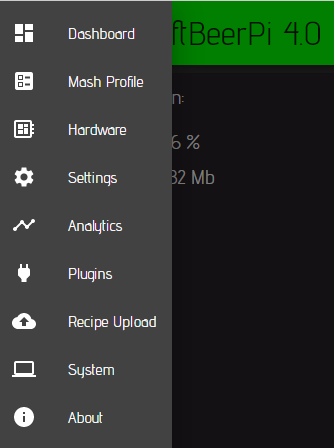
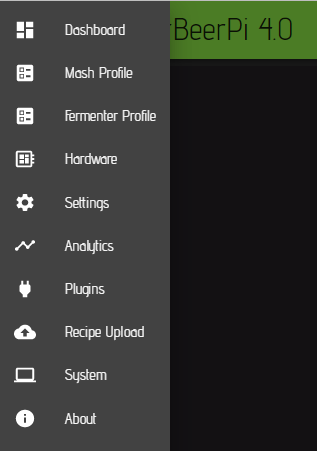
Added fermenterprofile

diff --git a/master/craftbeerpi-4-server/fermenter-profile.md b/master/craftbeerpi-4-server/fermenter-profile.md
@@ -1,0 +1,102 @@
+# Fermenter Profile
+
+On the CraftbeerPi 4 mash profile page, you can create recipes manually and send them to the mash step item for brewing. You can also store them in a recipe book and use them at a later point of time. You can also clone recipes or modify existing recipes. There is also the possibility to import recipes via beerxml files, from the database of 'Kleiner Brauhelfer 2' or directly via the Brewfather API (Paid premium account required). This part will be described in the [Recipe Upload](recipe-upload.md) section. If there is no active recipe defined, an empty window will open from where you can access the recipe book.
+
+![Empty Mash Profile window](../../.gitbook/assets/cbpi-mashprofile-empty.png)
+
+Now click on the recipe book button to open the recipe book. This will be empty when you open it for the first time.
+
+![Empty recipe book](../../.gitbook/assets/cbpi4-mashprofile-recipes.png)
+
+To create a new recipe, click on the '+' at the top right. An interactive menu will open where you can enter the Name of your recipe and a description. The brewer field will be filled with the brewer you entered on the [settings page](settings.md#global-system-parameters).&#x20;
+
+![Basic data fields for a new recipe](../../.gitbook/assets/cbpi4-mashprofile-recipe-editor.png)
+
+Now you need to add steps to the recipe. Therefore, you need to click on the '+' symbol on the right side of the Brew Steps label.
+
+![Mash Profile with a new empty step](../../.gitbook/assets/cbpi4-mashprofile-addstep.png)
+
+To edit the added step, you need to click on the 'down arrow' at the right side of the step. This will open an interactive menu for the step.
+
+![Mash Profile with step in Edit mode](../../.gitbook/assets/cbpi4-mashprofile-recipe-editor2.png)
+
+Now you need to select a mash step type which is currently labelled as 'Logic'. Therefore, you need to click on the Logic drop down menu and you will see the available step types.
+
+![Mash Step type selection](../../.gitbook/assets/cbpi4-mashprofile-stepselection.png)
+
+CraftbeerPi 4 comes with a pre-defined set of mash steps that can be added to a mash profile. Additional steps can be added via plugins. Some examples will be described in the [Development ](../development.md#creating-new-plugins)part.
+
+The table below summarizes the function and parameters for the standard mash steps that come with CraftbeerPi 4.
+
+{% hint style="info" %}
+All Steps have the name filed and you should enter a name for each step. e.g. MashIn, MashStep1, Boilstep, ... as this information can be used in other plugins (e.g. LCDisplay)
+{% endhint %}
+
+|                  | Description                                                                                                                                                                      | Parameters                                                                                                                                                                                                                                                                                                                                                                                                                                                                                                                                                                                    |
+| ---------------- | -------------------------------------------------------------------------------------------------------------------------------------------------------------------------------- | --------------------------------------------------------------------------------------------------------------------------------------------------------------------------------------------------------------------------------------------------------------------------------------------------------------------------------------------------------------------------------------------------------------------------------------------------------------------------------------------------------------------------------------------------------------------------------------------- |
+| MashInStep       | Heats up to the target temp and stops when temp is reached. This can be used to add e.g. Malt before moving to next step. User has to manually move to next step.                | <p><strong>Temp:</strong> Target Temp for MashInStep</p><p><strong>Sensor:</strong> Sensor to be used for this step</p><p><strong>Kettle:</strong> Kettle to be used for this step</p><p><strong>AutoMode:</strong> If yes: Kettle Logic will be switched on/off when step starts/stops</p>                                                                                                                                                                                                                                                                                                   |
+| MashStep         | Heats up to the target temp and runs until Timer is done.                                                                                                                        | <p><strong>Time:</strong> Time in Minutes for Timer</p><p><strong>Temp:</strong> Target Temp for MashStep</p><p><strong>Sensor:</strong> Sensor to be used for this step</p><p><strong>Kettle:</strong> Kettle to be used for this step</p><p><strong>AutoMode:</strong> If yes: Kettle Logic will be switched on/off when step starts/stops</p>                                                                                                                                                                                                                                              |
+| BoilStep         | Heats up to the target temp and runs until Timer is done. Is sending notifications to add hops.                                                                                  | <p><strong>Time:</strong> Time in Minutes for Timer</p><p><strong>Temp:</strong> Target Temp for BoilStep</p><p><strong>Sensor:</strong> Sensor to be used for this step</p><p><strong>Kettle:</strong> Kettle to be used for this step</p><p><strong>AutoMode:</strong> If yes: Kettle Logic will be switched on/off when step starts/stops</p><p><strong>First Wort:</strong> Sends a notification for First Wort Hops on Start if set to 'Yes'</p><p><strong>Hop [1-6]:</strong> Sends up to 6 notifications for Hop alarms on specified times. Time is remaining Boil time in Minutes</p> |
+| CooldownStep     | Waits that Wort is cooled down to target temp and is sending a notification. Active Step if Actor is selected. Can switch actor on on start and off when target temp is reached. | <p><strong>Temp:</strong> Target Temp for Notification</p><p><strong>Sensor:</strong> Sensor to be used for this step</p><p><strong>Kettle:</strong> Kettle to be used for this step</p><p><strong>Actor:</strong> Actor that is switched on during cooldown if selected (can be used to trigger a magnetic valve)</p>                                                                                                                                                                                                                                                                        |
+| Waitstep         | Does nothing for a specified time. Can be used as Whirlpool step.                                                                                                                | **Time:** Time in Minutes for Timer                                                                                                                                                                                                                                                                                                                                                                                                                                                                                                                                                           |
+| ToggleStep       | Switches an actor on or off                                                                                                                                                      | <p><strong>Toggle Type:</strong> defines if the specified actor is switched on or of in this step</p><p><strong>Actor:</strong> Actor that is toggled</p>                                                                                                                                                                                                                                                                                                                                                                                                                                     |
+| ActorStep        | Switches an Actor on for a specified time                                                                                                                                        | <p><strong>Time:</strong> Time in Minutes for Timer</p><p><strong>Actor:</strong> Actor that is switched on for the specified time</p>                                                                                                                                                                                                                                                                                                                                                                                                                                                        |
+| NotificationStep | Sends a Notification and can wait on user input. Can be used as step between Mash and boil for lautering with a required user input                                              | <p><strong>Notification:</strong> Notification text that can be specified by user</p><p><strong>AutoNext:</strong> If set to 'No', step is waiting for user input to move to next step. Otherwise, next step is automatically started.</p>                                                                                                                                                                                                                                                                                                                                                    |
+
+## Write your first simple recipe
+
+As described above, the basic data has been entered and the first step has been added to your recipe. Now you need to select a step type. I recommend to start with a MashInStep as this steps will heat up your water to the target temperature and sends a notification when the temperature is reached and will wait for a user input before moving to the next step. This allows you to add the malt at the mash-in temperature.
+
+You need to set the targeted mashin temperature and select the sensor and Kettle you want to use for this step. You should also specify a notification that is send when the target temperature is reached. I also recommend to set AutoMode to Yes.&#x20;
+
+{% hint style="info" %}
+AutoMode set to 'Yes' will switch on the kettle logic when a step starts and switch it off at the end of the step. This is the recommended setting for your mash and boil steps
+{% endhint %}
+
+![MashIn Step](../../.gitbook/assets/cbpi4-masprofile-mashin.png)
+
+Now you need to add a mash step and define the temperature for the first mash step which can be the same as the mashin step. Just click again on the '+' symbol to add an empty step and select MashStep as Logic. In this step you will need to define a timer in minutes and select your temperature sensor and kettle. Also here I recommend to use the automode setting. The timer will start counting, once the target temperature is reached.
+
+![First Mash step](../../.gitbook/assets/cbpi4-mashprofile-mash1.png)
+
+In this example we add another mash step at a higher temperature. The procedure to add another step is the same as before. Define name, temperature, time and select your sensor and kettle. Set Automode to 'yes'
+
+![Second Mash Step](../../.gitbook/assets/cbpi4-mashprofile-mash2.png)
+
+Afterwards, we add a mashout step which is also a regular mashstep at 78°C for 5 minutes. The other options will be the same as in the first two mash steps.
+
+![Mashou step](../../.gitbook/assets/cbpi4-mashprofile-mashout.png)
+
+Now it is recommended to add a Notification step for the lautering process before you can move to the boilstep. This step is based on a Notification step. Just select the notification step, enter some text for the notification and set AutoNext to 'No'. This will raise a pop-up message that needs to be confirmed before the system is moving to the next step.
+
+![Lautering step based on the Notification step](../../.gitbook/assets/cbpi4-mashprofile-lautering.png)
+
+As next step, you need to add a boilstep. In this step you need to define a couple of more parameters compared to the mash steps. However, the first few parameters are the same. You need to define the name, time, temperature. Then you need to select your sensor and kettle which can be for instance different from the mash kettle if your boil takes place in a different kettle. The lid alert flag can be set to yes. In this case the system will send a notification shortly before boiling temperature to remove the lid. AutoMode should e set again to 'Yes'. If your recipe has first wort hops included, you can set the First Wirt flag to yes. This will send a notification to add hops once you start this step. You can also define up to 6 hop/misc alarms. The time is the remaining boil time for the hops.
+
+![Boilstep with hop alarms](../../.gitbook/assets/cbpi4-mashprofile-boil.png)
+
+After the boilstep, it is recommended to add a waitstep that can be used as Whirpool. Just enter 15 minutes or your desired time for this step.
+
+![Whirlpool based on Waitstep](../../.gitbook/assets/cbpi4-mashprofile-whirlpool.png)
+
+Finally, you can add a cooldown step for the active cool down of your wort. You need to specify a target temperature, select your sensor and kettle. You can also specify an actor that is triggered by this step (e.g. a magnetic valve that toggles the cooling water). If an actor is specified, the step will turn the actor on at start and turn it off, when the target cooldown temperature is reached. The step will also send a notification, when the target temperature is reached. It also tries to predict the time, when the target temperature is reached. However, this is currently not very accurate.
+
+![Cooldown step.](../../.gitbook/assets/cbpi4-mashprofile-cooldown.png)
+
+Below you can see now the full recipe with all steps. You can move a step up or down with the up/down arrows on the right side. You can delete a step by clicking on the recycle bin button and you can edit a step by clicking on the down arrow as described above.
+
+![Full recipe with all steps](../../.gitbook/assets/cbpi4-mashprofile-fullrecipe.png)
+
+Now you should save your recipe to the recipe book by clicking on the save button at the top right. If you click on the back button 'left arrow' at the top, you will see your recipe book with your first recipe. If you click on the recipe, you come back to the edit screen.&#x20;
+
+![Recipe Book](../../.gitbook/assets/cbpi4-recipebook-firstrecipe.png)
+
+At the top of the recipe edit screen is also a mash paddle. If you want to set the recipe you loaded as active recipe, you need to click the mash paddle and the recipe is loaded and you can use it for brewing. A different window will open and you can basically start brewing by clicking on the start button. Also in this window, you can edit your recipe parameters or delete steps. You can also move steps up or down.
+
+![Active recipe on the mash profile page](../../.gitbook/assets/cbpi4-mashprofile-activerecipe.png)
+
+If you select now the Dashboard on your main menu and select the [Brewing dashboard ](dashboard.md#creating-a-simple-single-kettle-brew-dashboard)you defined earlier, you will see that the active recipe is now also shown in your mash steps item.
+
+![Brewing dashboard with active recipe](../../.gitbook/assets/cbpi4-dashboard-activerecipe.png)
+
+As mentioned above, there is also a way to automatically create recipes. This will be shown in the [Recipe Upload section.](recipe-upload.md) How to run now a recipe will be shown in the section [Operating your system](../operating-your-system.md).

diff --git a/master/craftbeerpi-4-server/README.md b/master/craftbeerpi-4-server/README.md
@@ -23,7 +23,8 @@ This menu will bring you to all the different pages you will need to configure y
 | Menu Item                         | Description                                                                                                                                                                                                                                                                      |
 | --------------------------------- | -------------------------------------------------------------------------------------------------------------------------------------------------------------------------------------------------------------------------------------------------------------------------------- |
 | [Dashboard](dashboard.md)         | Shows the Dashboard where you can place your kettles, sensors, actors and Mash Steps                                                                                                                                                                                             |
-| [Mash Profile](mash-profile.md)   | Opens a page where you can write or Modify your recipes and store them also in a local recipe book                                                                                                                                                                               |
+| [Mash Profile](mash-profile.md)   | Opens a page where you can write or modify your recipes and store them also in a local recipe book                                                                                                                                                                               |
+| [Fermenter Profile](fermenter-profile.md)   | Opens a page where you can write or modify your fermenterrecipes and store them also in a local recipe book. A fermenterrecipe can be stored for one fermenter, but transferred also to other fermenters. The temp sensor will be updated automatically.    |
 | [Hardware](hardware.md)           | Here you need to set up the hardware configuration (e.g. GPIO or logic) of your actors, sensors and kettles                                                                                                                                                                      |
 | [Settings](settings.md)           | On this page you need to configure global settings such as the MashTun or default mashsteps that are used for the automatic Mashstep creation or UserID and Password for the Brewfather API to download recipes                                                                  |
 | [Analytics](analytics.md)         | This page allows you to show the sensor data for all sensors and you can also delete the sensor logs.                                                                                                                                                                            |

diff --git a/SUMMARY.md b/SUMMARY.md
@@ -7,6 +7,7 @@
   * [CraftbeerPi 4 Server](master/craftbeerpi-4-server/README.md)
     * [Dashboard](master/craftbeerpi-4-server/dashboard.md)
     * [Mash Profile](master/craftbeerpi-4-server/mash-profile.md)
+    * [Fermenter Profile](master/craftbeerpi-4-server/fermenter-profile.md)
     * [Hardware](master/craftbeerpi-4-server/hardware.md)
     * [Settings](master/craftbeerpi-4-server/settings.md)
     * [Analytics](master/craftbeerpi-4-server/analytics.md)
